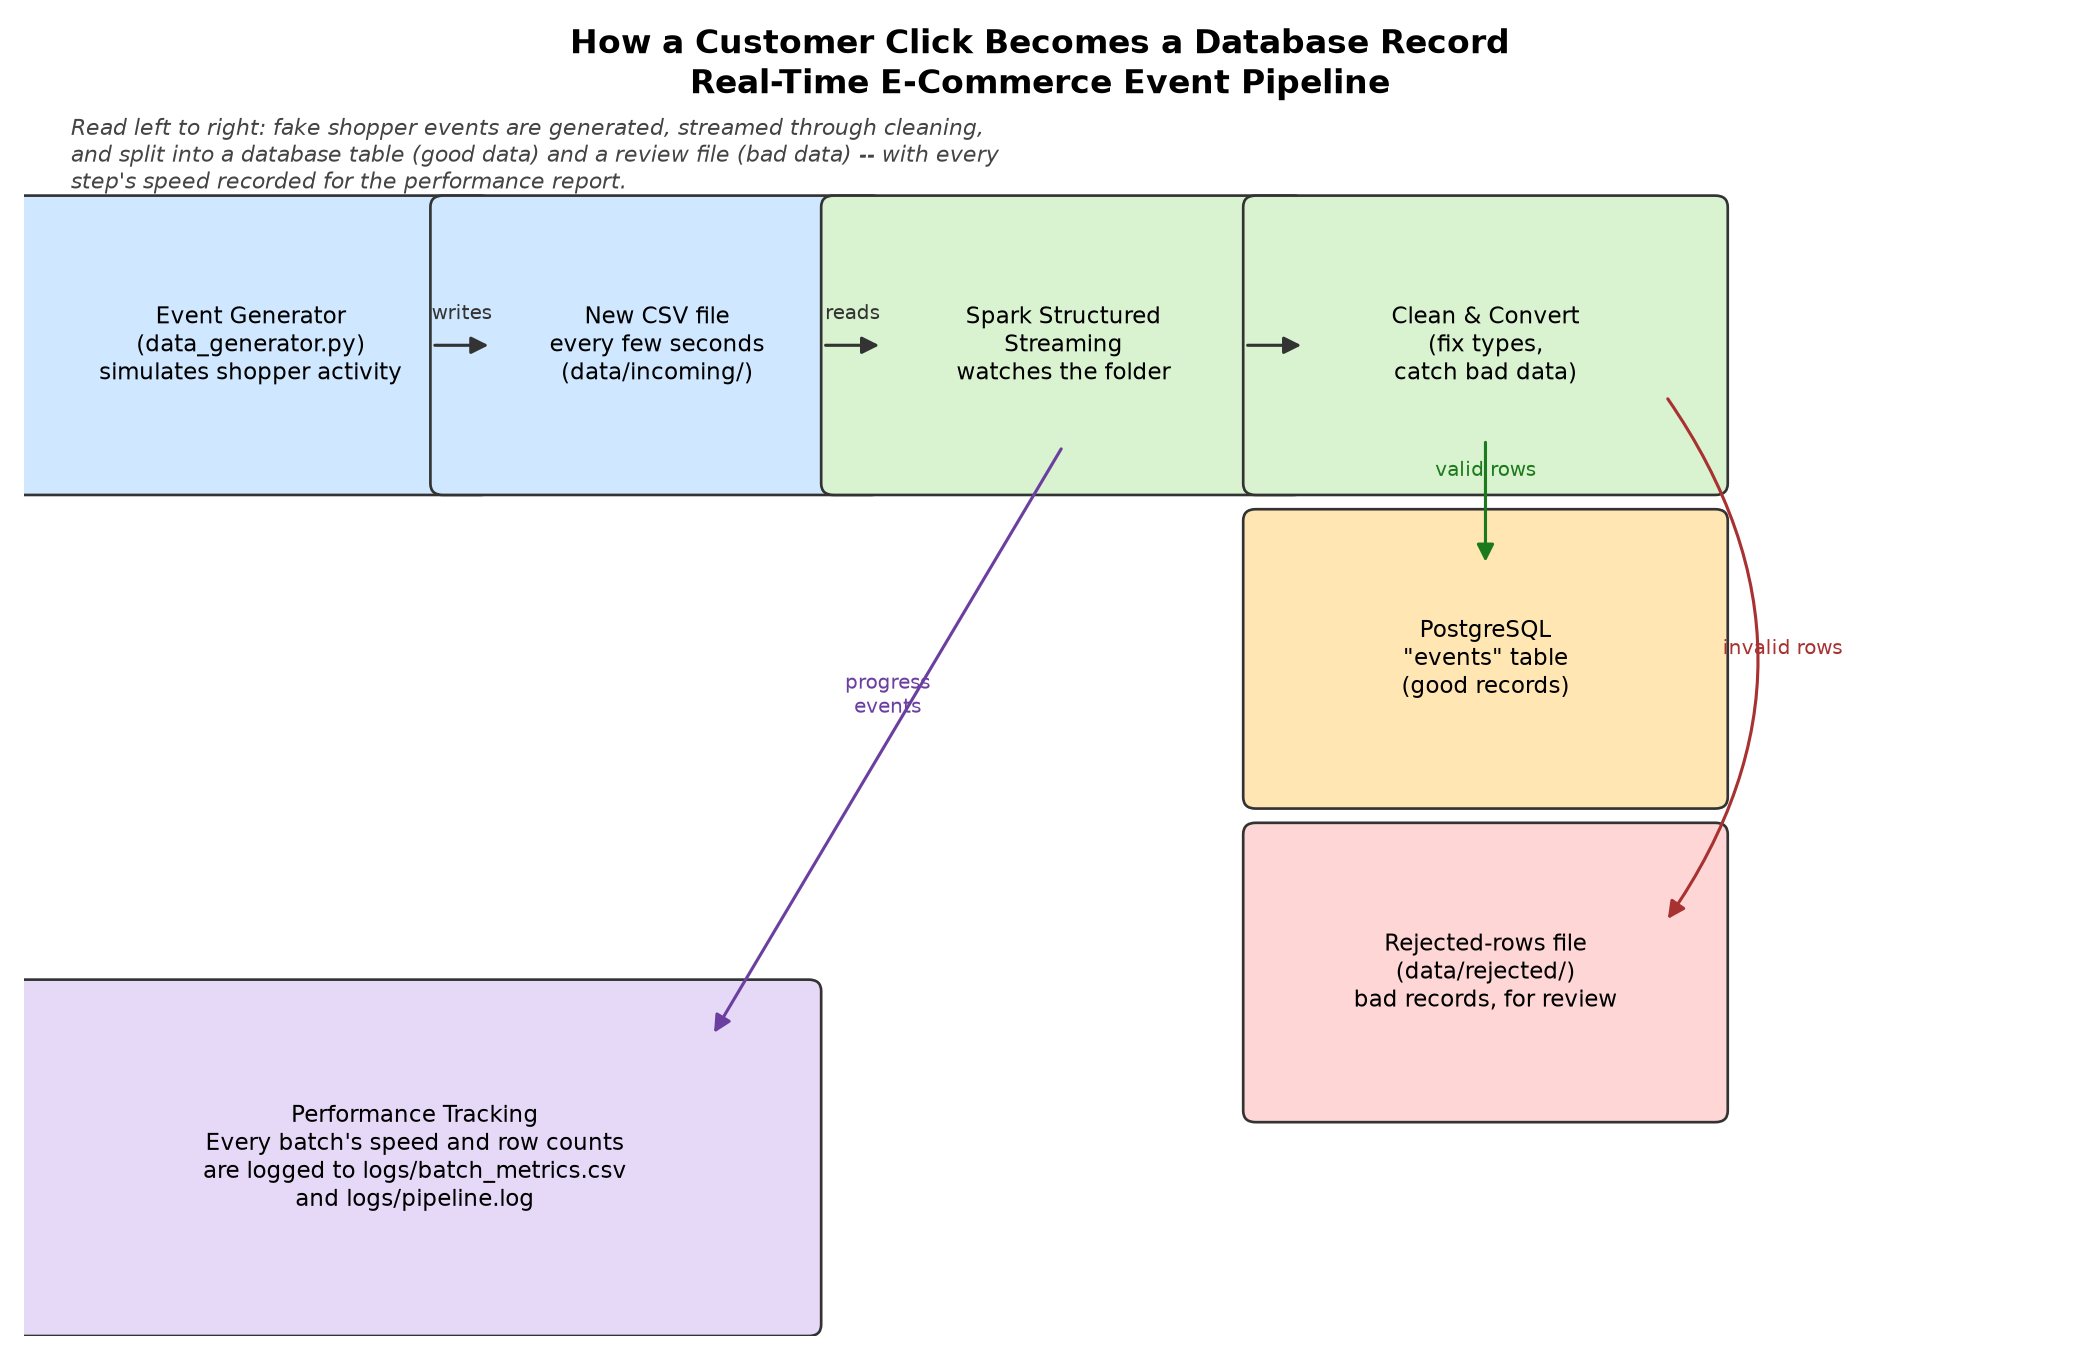
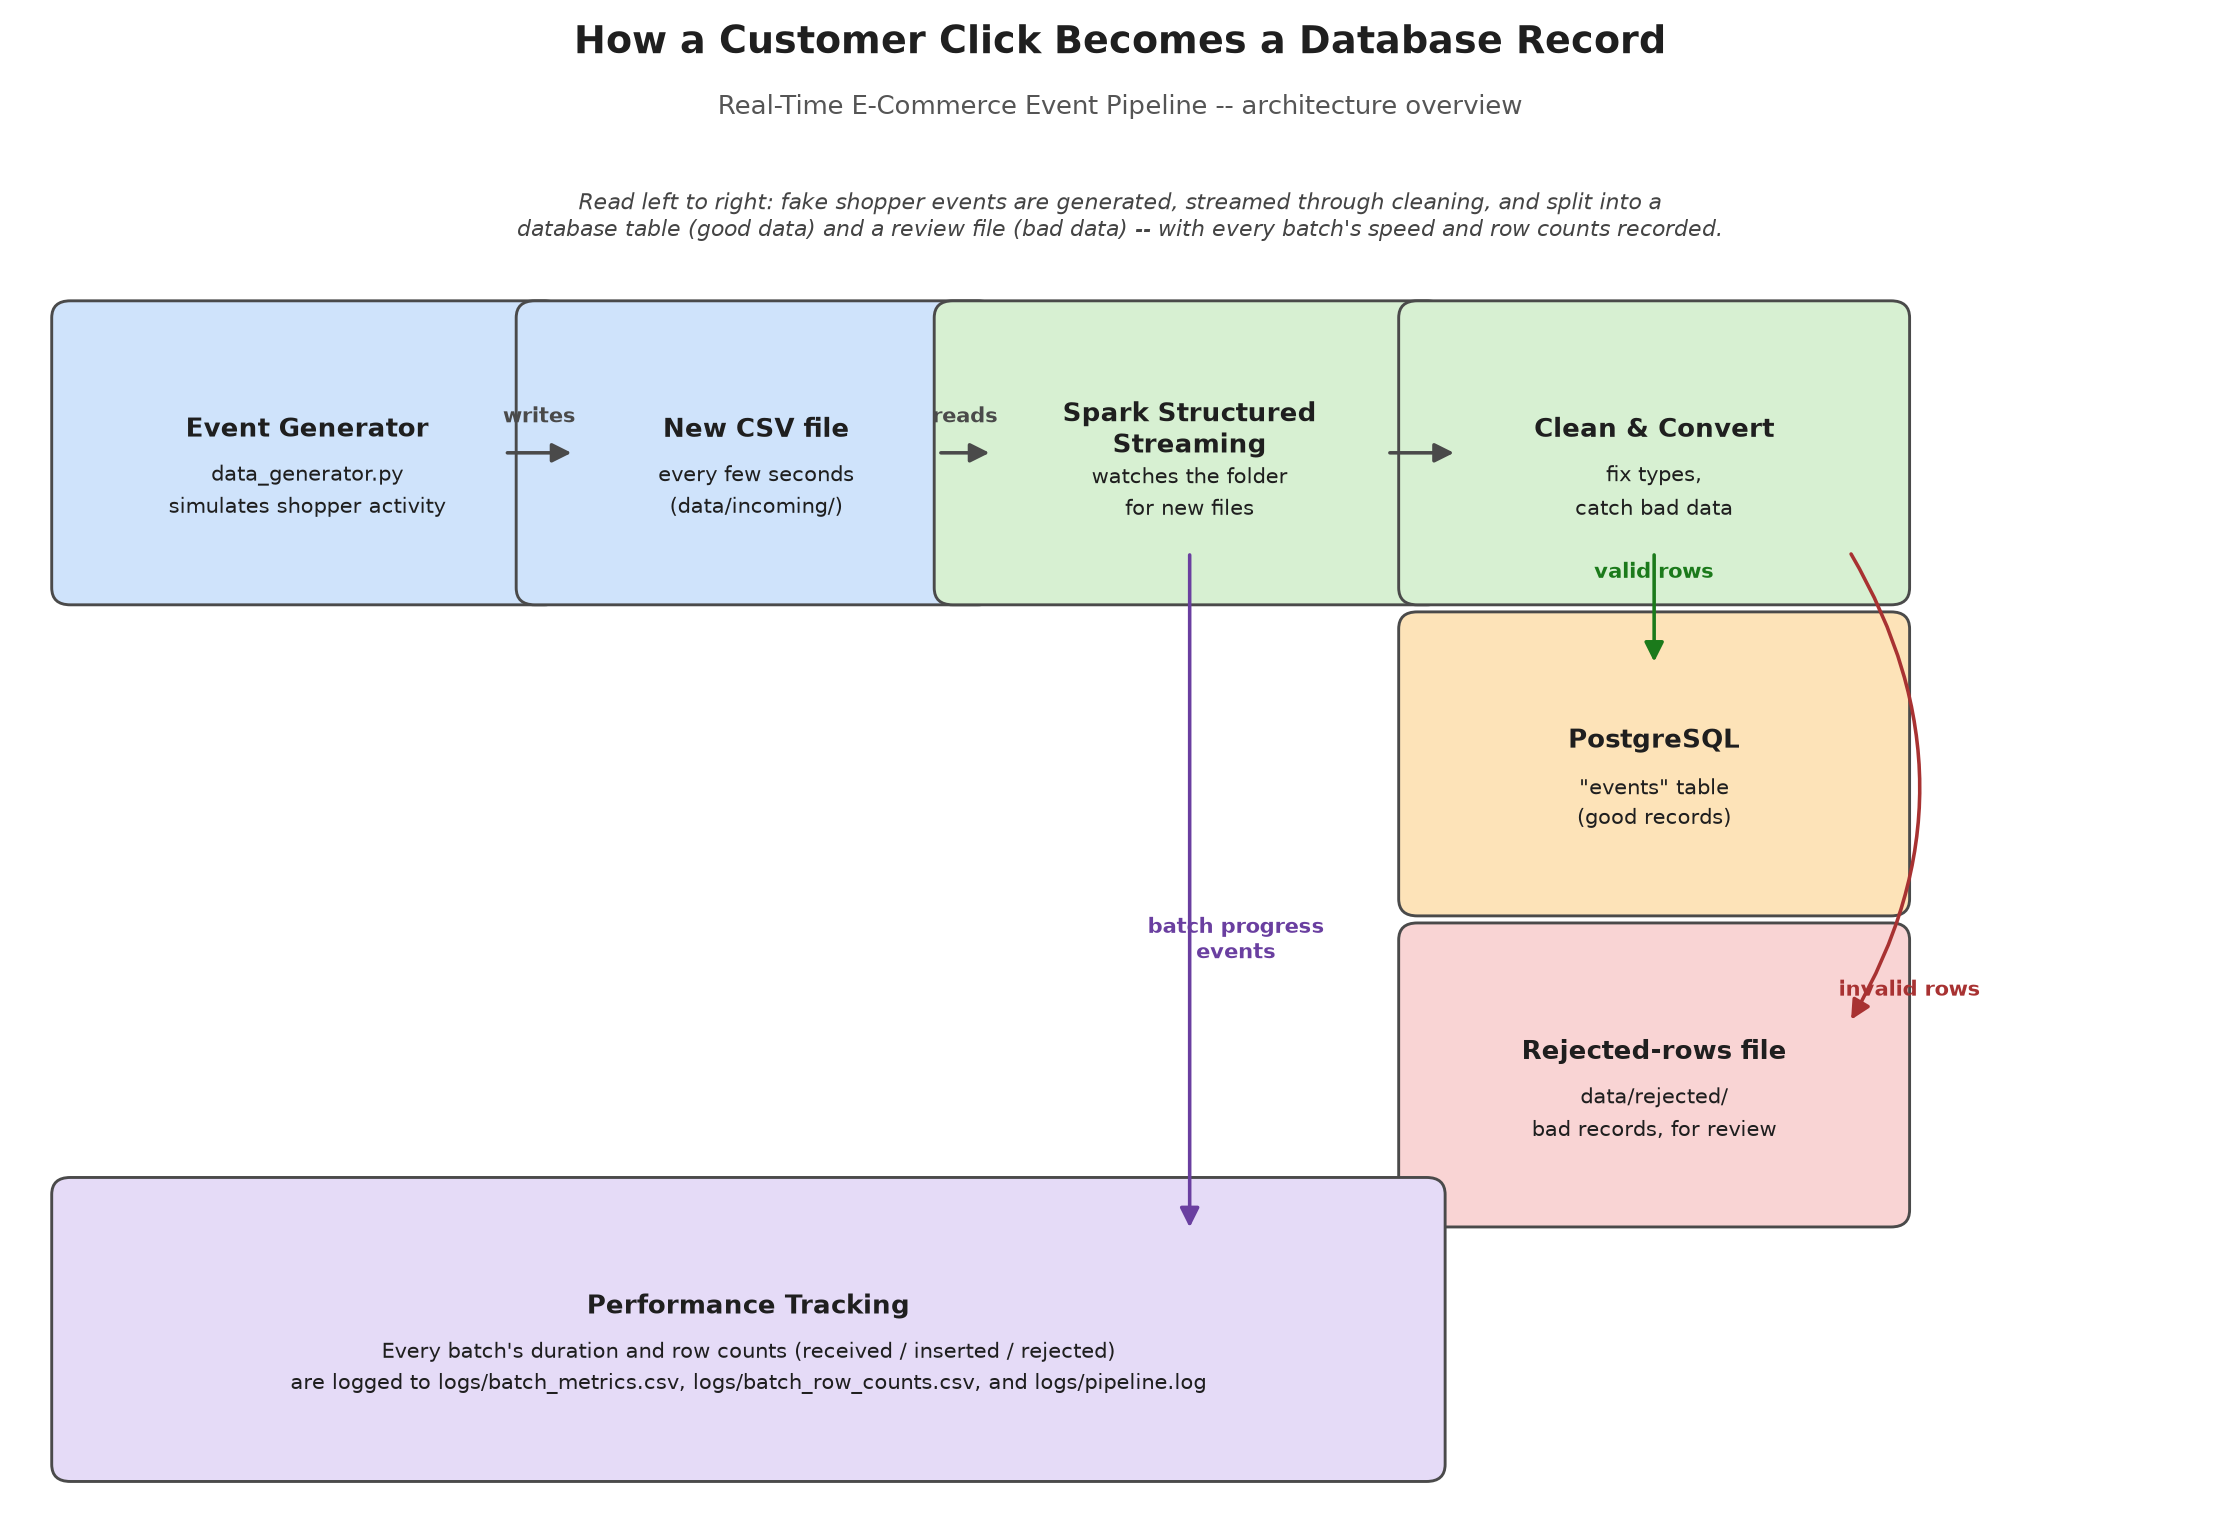
fix(streaming): fix box clipping and layout in the architecture diagram
FancyBboxPatch's "round,pad=0.4" boxstyle expands each box visually
beyond its given (x, y, width, height); boxes placed close to the axis
limits (the leftmost column, the bottom metrics box) had that padding
silently clipped by the axes boundary, cutting off borders and corners.
Fixed with box.set_clip_on(False) instead of just nudging margins,
which would only move the same bug to a different edge.

Also moves the explanatory caption from data-coordinate ax.text (which
competed for space with the top row of boxes) to figure-fraction
fig.text, and reroutes the "batch progress events" arrow down a clear
column instead of diagonally crossing under the CSV-file box.

Changed region(s): [[0.0, 0.0, 0.875, 0.9882], [0.6875, 0.4632, 0.7812, 0.5559], [0.4062, 0.4941, 0.4688, 0.525]]

diff --git a/Streaming/generate_architecture_diagram.py b/Streaming/generate_architecture_diagram.py
@@ -2,7 +2,7 @@
 pipeline, for the project_overview.md write-up and non-technical stakeholders.
 
 A one-off documentation asset, not part of the runtime pipeline -- run it by
-hand whenever the architecture changes: `python scripts/generate_architecture_diagram.py`.
+hand whenever the architecture changes: `python generate_architecture_diagram.py`.
 """
 from __future__ import annotations
 
@@ -13,83 +13,116 @@ from src.streaming_pipeline.config import BASE_DIR
 
 OUTPUT_PATH = BASE_DIR / "system_architecture.png"
 
-_BOX_STYLE = "round,pad=0.4,rounding_size=0.08"
+_BOX_STYLE = "round,pad=0.4,rounding_size=0.12"
 _COLORS = {
-    "source": "#cfe8ff",
-    "process": "#d9f2d0",
-    "store": "#ffe6b3",
-    "reject": "#ffd6d6",
-    "observe": "#e6d9f7",
+    "source": "#cfe3fb",
+    "process": "#d7f0d2",
+    "store": "#fde3b8",
+    "reject": "#f9d4d4",
+    "observe": "#e5dbf7",
 }
+_EDGE_COLOR = "#4a4a4a"
+_TEXT_COLOR = "#1f1f1f"
 
 
-def _box(ax, xy, width, height, text, color, fontsize=10.5):
+def _box(ax, xy, width, height, title, subtitle, color, title_size=11.5, subtitle_size=9.5):
     x, y = xy
     box = FancyBboxPatch(
         (x, y), width, height,
-        boxstyle=_BOX_STYLE, linewidth=1.2,
-        edgecolor="#333333", facecolor=color,
+        boxstyle=_BOX_STYLE, linewidth=1.3,
+        edgecolor=_EDGE_COLOR, facecolor=color,
     )
+    box.set_joinstyle("round")
+    box.set_clip_on(False)
     ax.add_patch(box)
-    ax.text(x + width / 2, y + height / 2, text, ha="center", va="center", fontsize=fontsize, wrap=True)
-    return {"left": (x, y + height / 2), "right": (x + width, y + height / 2),
-            "top": (x + width / 2, y + height), "bottom": (x + width / 2, y)}
+    cx = x + width / 2
+    ax.text(cx, y + height * 0.62, title, ha="center", va="center",
+             fontsize=title_size, fontweight="bold", color=_TEXT_COLOR)
+    ax.text(cx, y + height * 0.30, subtitle, ha="center", va="center",
+             fontsize=subtitle_size, color=_TEXT_COLOR, linespacing=1.5)
+    return {
+        "left": (x, y + height / 2), "right": (x + width, y + height / 2),
+        "top": (cx, y + height), "bottom": (cx, y),
+        "top_right": (x + width, y + height), "bottom_right": (x + width, y),
+    }
 
 
-def _arrow(ax, start, end, label="", color="#333333", connectionstyle="arc3,rad=0.0", label_offset=(0, 0.15)):
+def _arrow(ax, start, end, label="", color=_EDGE_COLOR, connectionstyle="arc3,rad=0.0",
+           label_pos=None, label_size=9.5):
     arrow = FancyArrowPatch(
-        start, end, arrowstyle="-|>", mutation_scale=16,
-        linewidth=1.4, color=color, shrinkA=2, shrinkB=2,
+        start, end, arrowstyle="-|>", mutation_scale=18,
+        linewidth=1.6, color=color, shrinkA=3, shrinkB=3,
         connectionstyle=connectionstyle,
     )
     ax.add_patch(arrow)
     if label:
-        mid = ((start[0] + end[0]) / 2 + label_offset[0], (start[1] + end[1]) / 2 + label_offset[1])
-        ax.text(mid[0], mid[1], label, ha="center", va="bottom", fontsize=9, color=color)
+        if label_pos is None:
+            label_pos = ((start[0] + end[0]) / 2, (start[1] + end[1]) / 2 + 0.18)
+        ax.text(label_pos[0], label_pos[1], label, ha="center", va="bottom",
+                 fontsize=label_size, color=color, fontweight="bold")
 
 
 def build_figure():
-    fig, ax = plt.subplots(figsize=(13, 8.5))
-    ax.set_xlim(0, 13)
-    ax.set_ylim(0, 8.5)
+    fig = plt.figure(figsize=(14, 9.5))
+    ax = fig.add_axes((0.03, 0.03, 0.94, 0.80))
+    ax.set_xlim(0, 13.6)
+    ax.set_ylim(0, 8.6)
     ax.axis("off")
-    ax.set_title(
-        "How a Customer Click Becomes a Database Record\n"
-        "Real-Time E-Commerce Event Pipeline",
-        fontsize=15, fontweight="bold", pad=14,
+
+    fig.text(0.5, 0.965, "How a Customer Click Becomes a Database Record",
+              ha="center", fontsize=17, fontweight="bold", color=_TEXT_COLOR)
+    fig.text(0.5, 0.925, "Real-Time E-Commerce Event Pipeline -- architecture overview",
+              ha="center", fontsize=11.5, color="#555555")
+    fig.text(
+        0.5, 0.875,
+        "Read left to right: fake shopper events are generated, streamed through cleaning, and split into a\n"
+        "database table (good data) and a review file (bad data) -- with every batch's speed and row counts recorded.",
+        ha="center", va="top", fontsize=10, style="italic", color="#444444",
     )
 
-    top_y = 6.3
-    generator = _box(ax, (0.3, top_y), 2.3, 1.3, "Event Generator\n(data_generator.py)\nsimulates shopper activity", _COLORS["source"])
-    csv_files = _box(ax, (3.0, top_y), 2.1, 1.3, "New CSV file\nevery few seconds\n(data/incoming/)", _COLORS["source"])
-    spark_read = _box(ax, (5.5, top_y), 2.3, 1.3, "Spark Structured\nStreaming\nwatches the folder", _COLORS["process"])
-    clean = _box(ax, (8.2, top_y), 2.3, 1.3, "Clean & Convert\n(fix types,\ncatch bad data)", _COLORS["process"])
+    top_y = 6.55
+    box_h = 1.35
 
-    postgres = _box(ax, (8.2, 4.1), 2.3, 1.3, "PostgreSQL\n\"events\" table\n(good records)", _COLORS["store"])
-    rejected = _box(ax, (8.2, 1.9), 2.3, 1.3, "Rejected-rows file\n(data/rejected/)\nbad records, for review", _COLORS["reject"])
+    generator = _box(ax, (0.3, top_y), 2.5, box_h,
+                      "Event Generator", "data_generator.py\nsimulates shopper activity",
+                      _COLORS["source"])
+    csv_files = _box(ax, (3.3, top_y), 2.3, box_h,
+                      "New CSV file", "every few seconds\n(data/incoming/)",
+                      _COLORS["source"])
+    spark_read = _box(ax, (6.0, top_y), 2.5, box_h,
+                       "Spark Structured\nStreaming", "watches the folder\nfor new files",
+                       _COLORS["process"])
+    clean = _box(ax, (9.0, top_y), 2.5, box_h,
+                 "Clean & Convert", "fix types,\ncatch bad data",
+                 _COLORS["process"])
 
-    metrics = _box(ax, (0.3, 0.4), 4.4, 1.7,
-                    "Performance Tracking\nEvery batch's speed and row counts\nare logged to logs/batch_metrics.csv\nand logs/pipeline.log", _COLORS["observe"])
+    postgres = _box(ax, (9.0, 4.35), 2.5, box_h,
+                     "PostgreSQL", '"events" table\n(good records)',
+                     _COLORS["store"])
+    rejected = _box(ax, (9.0, 2.15), 2.5, box_h,
+                     "Rejected-rows file", "data/rejected/\nbad records, for review",
+                     _COLORS["reject"])
+
+    metrics = _box(ax, (0.3, 0.35), 8.2, 1.35,
+                    "Performance Tracking",
+                    "Every batch's duration and row counts (received / inserted / rejected)\n"
+                    "are logged to logs/batch_metrics.csv, logs/batch_row_counts.csv, and logs/pipeline.log",
+                    _COLORS["observe"], subtitle_size=9.5)
 
     _arrow(ax, generator["right"], csv_files["left"], "writes")
     _arrow(ax, csv_files["right"], spark_read["left"], "reads")
     _arrow(ax, spark_read["right"], clean["left"])
     _arrow(ax, clean["bottom"], postgres["top"], "valid rows", color="#1b7a1b")
     _arrow(
-        ax, (clean["right"][0], clean["right"][1] - 0.35), (rejected["right"][0], rejected["right"][1] + 0.35),
-        "invalid rows", color="#a83232", connectionstyle="arc3,rad=-0.35", label_offset=(0.75, 0),
+        ax, clean["bottom_right"], (rejected["right"][0], rejected["right"][1] + 0.35),
+        "invalid rows", color="#a83232", connectionstyle="arc3,rad=-0.3",
+        label_pos=(11.9, 3.35),
     )
-    _arrow(ax, (spark_read["bottom"][0], spark_read["bottom"][1] - 0.05), (metrics["right"][0] - 0.3, metrics["top"][1]), "progress\nevents", color="#6a3fa0")
-
-    ax.text(
-        0.3, 8.05,
-        "Read left to right: fake shopper events are generated, streamed through cleaning,\n"
-        "and split into a database table (good data) and a review file (bad data) -- with every\n"
-        "step's speed recorded for the performance report.",
-        fontsize=10, style="italic", color="#444444",
+    _arrow(
+        ax, spark_read["bottom"], (spark_read["bottom"][0], metrics["top"][1]),
+        "batch progress\nevents", color="#6a3fa0", label_pos=(7.55, 3.6),
     )
 
-    fig.tight_layout()
     return fig
 
 
